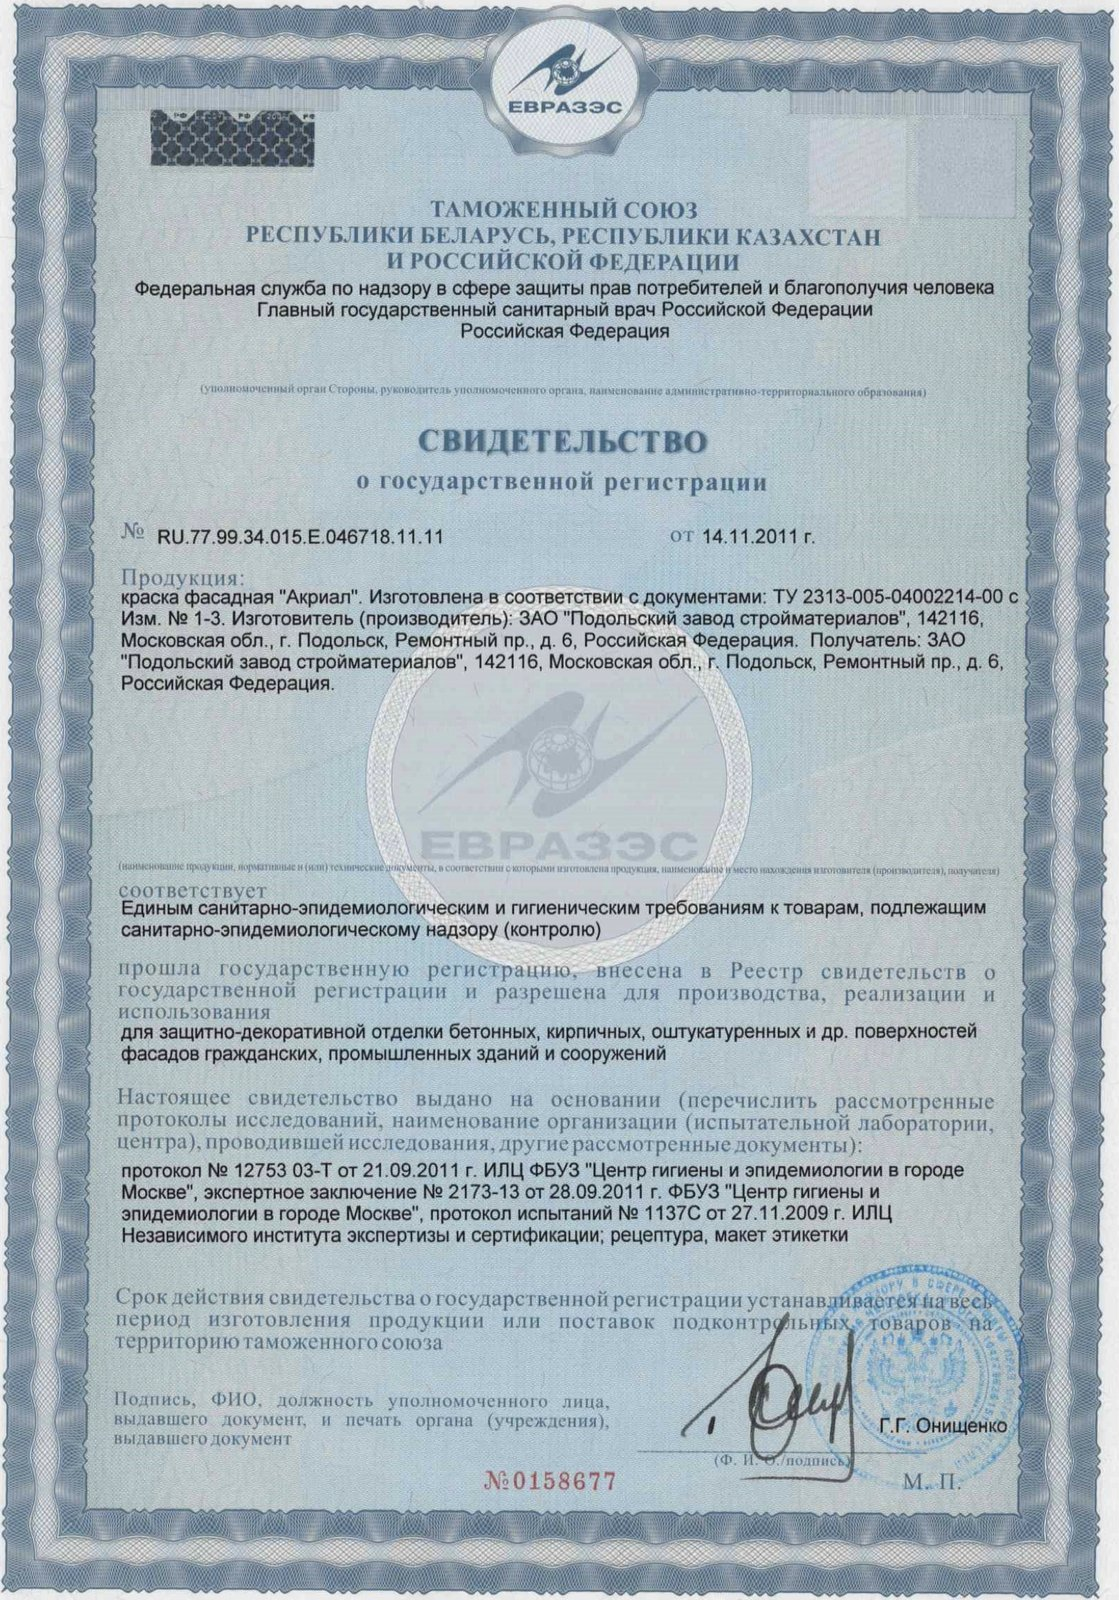
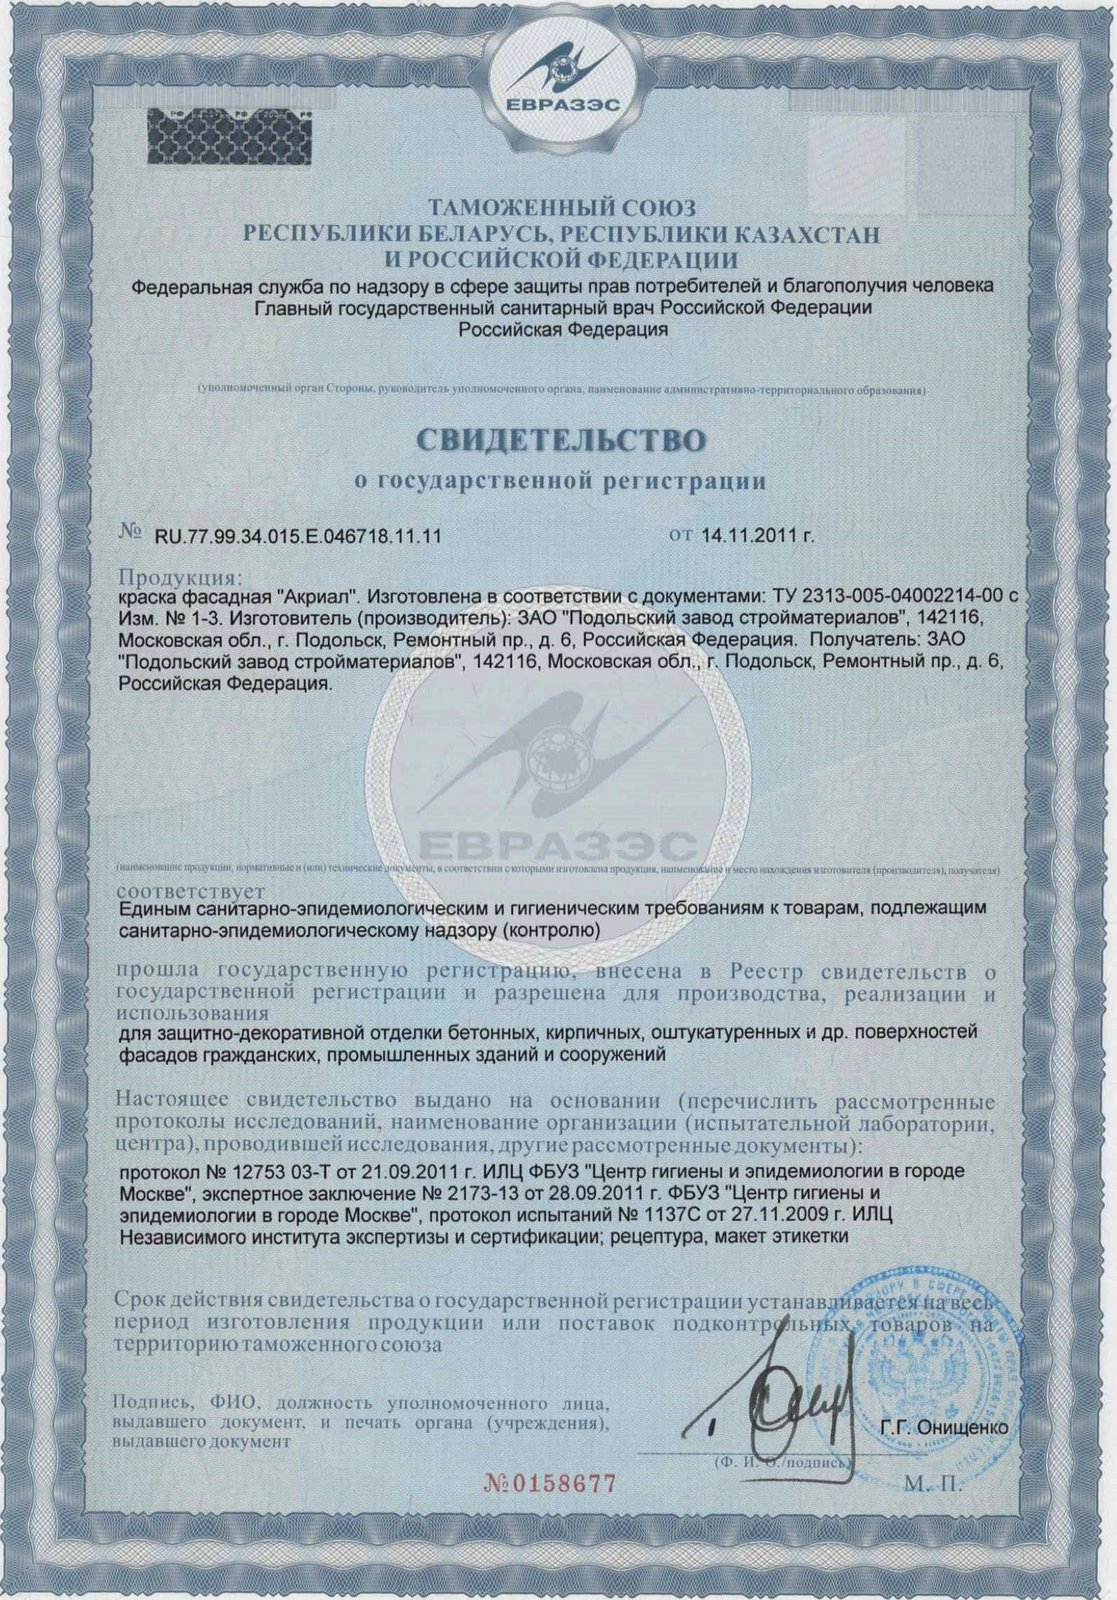
Сертификаты: точнее выровнены сканы, блок перенесён в финальную секцию
Все три скана довыровнены по многоточечному замеру наклона рамки
(не только по 4 угловым точкам) - предыдущая правка оставляла заметный
перекос у "Краска" и "Грунтовка". Блок "Сертификаты и документы"
перенесён из отдельной секции между CTA-карточкой и картой/контактами
внутри #contacts, как попросил пользователь.

Changed region(s): [[0.0, 0.0, 1.0, 1.0], [0.6088, 0.875, 0.6392, 0.9062]]

diff --git a/index.html b/index.html
@@ -1226,50 +1226,6 @@
 </section>
 
 
-<!-- ====================== СЕРТИФИКАТЫ ======================
-     Сканы документов на материалы "Акриал" (ЗАО "Подольский завод
-     стройматериалов"): обрезаны по рамке, два скана выровнены (были
-     немного завалены при сканировании). Клик по карточке открывает
-     исходный скан в полный размер. -->
-<section class="section section--warm" id="certs">
-  <div class="wrap">
-
-    <div class="sec-head reveal">
-      <span class="eyebrow">Сертификаты и документы</span>
-      <h2 class="h2 dashed">Материалы <em class="accent">с подтверждённым качеством</em></h2>
-      <p class="body">
-        Работаем на фасадных материалах «Акриал» - краске, грунтовке и комплексной
-        системе защитно-декоративной отделки. На каждый материал есть действующий
-        сертификат соответствия и свидетельство о государственной регистрации.
-        Оригиналы показываем на объекте по запросу.
-      </p>
-    </div>
-
-    <div class="certs">
-      <a class="cert reveal" href="assets/certs/cert-paint.jpg" target="_blank" rel="noopener">
-        <img src="assets/certs/cert-paint.jpg"
-             alt="Свидетельство о государственной регистрации: краска фасадная «Акриал»"
-             width="1119" height="1600" loading="lazy" decoding="async">
-        <span class="cert__cap">Краска фасадная «Акриал» <i class="ph ph-arrow-up-right" aria-hidden="true"></i></span>
-      </a>
-      <a class="cert reveal" href="assets/certs/cert-primer.jpg" target="_blank" rel="noopener" style="--d:70ms">
-        <img src="assets/certs/cert-primer.jpg"
-             alt="Свидетельство о государственной регистрации: грунтовка «Акриал»"
-             width="1129" height="1600" loading="lazy" decoding="async">
-        <span class="cert__cap">Грунтовка «Акриал» <i class="ph ph-arrow-up-right" aria-hidden="true"></i></span>
-      </a>
-      <a class="cert reveal" href="assets/certs/cert-compliance.jpg" target="_blank" rel="noopener" style="--d:140ms">
-        <img src="assets/certs/cert-compliance.jpg"
-             alt="Сертификат соответствия на комплекс материалов «Акриал»"
-             width="1123" height="1600" loading="lazy" decoding="async">
-        <span class="cert__cap">Сертификат соответствия «Акриал» <i class="ph ph-arrow-up-right" aria-hidden="true"></i></span>
-      </a>
-    </div>
-
-  </div>
-</section>
-
-
 <!-- ====================== ФИНАЛ ====================== -->
 <section class="section" id="contacts" style="padding-top:0">
   <div class="wrap">
@@ -1285,6 +1241,45 @@
         </div>
       </div>
       <a class="btn btn--lg" href="#estimate">Подготовить запрос на смету <i class="ph ph-arrow-up-right" aria-hidden="true"></i></a>
+    </div>
+
+    <!-- ====================== СЕРТИФИКАТЫ ======================
+         Сканы документов на материалы "Акриал" (ЗАО "Подольский завод
+         стройматериалов"): обрезаны по рамке, выровнены (были немного
+         завалены при сканировании). Клик по карточке открывает исходный
+         скан в полный размер. -->
+    <div class="certs-block reveal">
+      <div class="sec-head">
+        <span class="eyebrow">Сертификаты и документы</span>
+        <h2 class="h2 dashed">Материалы <em class="accent">с подтверждённым качеством</em></h2>
+        <p class="body">
+          Работаем на фасадных материалах «Акриал» - краске, грунтовке и комплексной
+          системе защитно-декоративной отделки. На каждый материал есть действующий
+          сертификат соответствия и свидетельство о государственной регистрации.
+          Оригиналы показываем на объекте по запросу.
+        </p>
+      </div>
+
+      <div class="certs">
+        <a class="cert" href="assets/certs/cert-paint.jpg" target="_blank" rel="noopener">
+          <img src="assets/certs/cert-paint.jpg"
+               alt="Свидетельство о государственной регистрации: краска фасадная «Акриал»"
+               width="1117" height="1600" loading="lazy" decoding="async">
+          <span class="cert__cap">Краска фасадная «Акриал» <i class="ph ph-arrow-up-right" aria-hidden="true"></i></span>
+        </a>
+        <a class="cert" href="assets/certs/cert-primer.jpg" target="_blank" rel="noopener">
+          <img src="assets/certs/cert-primer.jpg"
+               alt="Свидетельство о государственной регистрации: грунтовка «Акриал»"
+               width="1128" height="1600" loading="lazy" decoding="async">
+          <span class="cert__cap">Грунтовка «Акриал» <i class="ph ph-arrow-up-right" aria-hidden="true"></i></span>
+        </a>
+        <a class="cert" href="assets/certs/cert-compliance.jpg" target="_blank" rel="noopener">
+          <img src="assets/certs/cert-compliance.jpg"
+               alt="Сертификат соответствия на комплекс материалов «Акриал»"
+               width="1121" height="1600" loading="lazy" decoding="async">
+          <span class="cert__cap">Сертификат соответствия «Акриал» <i class="ph ph-arrow-up-right" aria-hidden="true"></i></span>
+        </a>
+      </div>
     </div>
 
     <div class="locate reveal">

diff --git a/assets/styles.css b/assets/styles.css
@@ -956,8 +956,10 @@ em.accent,.accent{
 @media (max-width:900px){ .reviews{ grid-template-columns:1fr; } }
 
 /* ==========================================================================
-   22a. СЕРТИФИКАТЫ  (документы сканами - без кропа, целиком)
+   22a. СЕРТИФИКАТЫ  (документы сканами - без кропа, целиком; блок внутри
+   #contacts, между финальной карточкой и картой - своей секции не образует)
    ========================================================================== */
+.certs-block{ margin-top:clamp(40px,5vw,64px); }
 .certs{ display:grid; grid-template-columns:repeat(3,minmax(0,1fr)); gap:clamp(18px,2vw,26px); }
 .cert{
   display:block; padding:14px 14px 20px;
@@ -965,7 +967,6 @@ em.accent,.accent{
   box-shadow:var(--shadow-sm);
   transition:transform .45s var(--ease), box-shadow .45s var(--ease);
 }
-.section--warm .cert{ box-shadow:none; }
 .cert:hover{ transform:translateY(-3px); box-shadow:var(--shadow-md); }
 .cert img{
   display:block; width:100%; height:auto;

diff --git a/README.md b/README.md
@@ -62,8 +62,8 @@ python3 -m http.server 4173
 13. `08 / Ваш объект` — бриф
 14. `09 / Детали` — FAQ
 15. Отзывы
-16. **Сертификаты и документы (новый)**
-17. Финальный блок и подвал
+16. Финальный блок: CTA-карточка → **Сертификаты и документы (новый)** →
+    карта и контакты → подвал
 
 ---
 
@@ -115,16 +115,18 @@ python3 -m http.server 4173
 
 ## Сертификаты
 
-Блок «Сертификаты и документы», секция `#certs`, между «Отзывами» и
-финальным блоком. Три скана документов на материалы «Акриал» (ЗАО
-«Подольский завод стройматериалов») лежат в `assets/certs/`:
+Блок «Сертификаты и документы», `.certs-block` внутри секции `#contacts` -
+между финальной CTA-карточкой (`.final`) и картой с контактами (`.locate`),
+своей `<section>` не образует. Три скана документов на материалы «Акриал»
+(ЗАО «Подольский завод стройматериалов») лежат в `assets/certs/`:
 `cert-paint.jpg` (краска), `cert-primer.jpg` (грунтовка),
 `cert-compliance.jpg` (сертификат соответствия на комплекс). Исходники
-из PDF обрезаны по рамке документа (убраны белые поля скана), один скан
-был немного завален при сканировании - выровнен. Показаны целиком, без
-кропа под квадрат/прямоугольник - карточка просто следует пропорциям
-документа (object-fit не используется). Клик по карточке открывает скан
-в полный размер в новой вкладке.
+из PDF обрезаны по рамке документа (убраны белые поля скана), все три
+выровнены по горизонтали/вертикали (были немного завалены при
+сканировании - угол подбирался по положению рамки документа, а не на
+глаз). Показаны целиком, без кропа под квадрат/прямоугольник - карточка
+просто следует пропорциям документа (object-fit не используется). Клик
+по карточке открывает скан в полный размер в новой вкладке.
 
 Добавить ещё один документ: скопируйте блок `<a class="cert">`, положите
 файл в `assets/certs/`.
